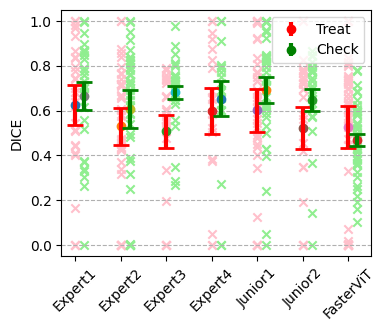
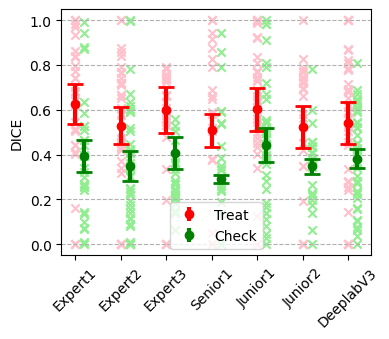
update

diff --git a/src/metrics[wp7]/plotting/results_errorbars_human_machine.py b/src/metrics[wp7]/plotting/results_errorbars_human_machine.py
@@ -27,11 +27,11 @@ for class_label in ['Treat', 'Check']:
     with open('../json_results/'+Version+'/' + metric + '_models_'+train_data+'_'+ class_label, 'r') as f:
         NSDs_model = json.load(f)
     NSD_e1, NSD_e2, NSD_e3, NSD_e4, NSD_j1, NSD_j2 = NSDs_annotator[0:6]
-    NSD_fasterViT = NSDs_model[1]
+    NSD_fasterViT = NSDs_model[0]
 
-    y = [mean(NSD_e1), mean(NSD_e2), mean(NSD_e3), mean(NSD_e4), mean(NSD_j1), mean(NSD_j2), mean(NSD_fasterViT)]
+    y = [mean(NSD_e1), mean(NSD_e2), mean(NSD_e4), mean(NSD_e3), mean(NSD_j1), mean(NSD_j2), mean(NSD_fasterViT)]
 
-    y_error = [std(NSD_e1) ** 2, std(NSD_e2) ** 2, std(NSD_e3) ** 2, std(NSD_e4) ** 2, std(NSD_j1) ** 2,
+    y_error = [std(NSD_e1) ** 2, std(NSD_e2) ** 2, std(NSD_e4) ** 2,std(NSD_e3) ** 2, std(NSD_j1) ** 2,
                std(NSD_j2) ** 2, std(NSD_fasterViT) ** 2]
 
     for i in range(7):
@@ -55,7 +55,7 @@ plt.errorbar([], [], yerr=[], fmt='o', markerfacecolor='green', markeredgecolor=
     # Add legend
 plt.legend(loc = 'lower center')
 plt.tight_layout()  # This ensures the labels fit well inside the plot
-plt.xticks(list(range(0, 7)), ['Expert1', 'Expert2', 'Expert3', 'Expert4', 'Junior1', 'Junior2', 'FasterViT'], rotation=45)
+plt.xticks(list(range(0, 7)), ['Expert1', 'Expert2', 'Expert3', 'Senior1', 'Junior1', 'Junior2', 'DeeplabV3'], rotation=45)
 print('../figures/'+Version+'/human_machine_' + metric + '_' + train_data)
 plt.savefig('../figures/'+Version+'/human_machine_' + metric + '_' + train_data, orientation='portrait',
             bbox_inches='tight')

diff --git a/src/dataset_module/create_Check_masks.py b/src/dataset_module/create_Check_masks.py
@@ -1,0 +1,32 @@
+import os
+
+import cv2
+import numpy as np
+
+
+def reColor_check(mask, color1=(128, 0, 0), color2=(100, 0, 0)):  # this function replaces color1 with color2 in mask
+    data = np.array(mask)  # "data" is a height x width x 4 numpy array
+    red, green, blue = data.T  # Temporarily unpack the bands for readability
+
+    # Replace white with red... (leaves alpha values alone...)
+    black_areas = (red == color1[0]) & (blue == color1[2]) & (green == color1[1])
+    data[black_areas.T] = color2  # Transpose back needed
+    return data
+
+annotator = 6
+mask_path = os.path.join('/data/DATA/annotator-consensus-deeplab/',str(annotator),'masks')  #the path to the 'annotator-consensus' folder
+mask_path2='/data/DATA/annotator-consensus2/'
+os.makedirs(os.path.join(mask_path2,str(annotator),'mask/Treat'),exist_ok=True)
+os.makedirs(os.path.join(mask_path2,str(annotator),'mask/Check'),exist_ok=True)
+
+for mask in os.listdir(mask_path):
+    image = cv2.imread(os.path.join(mask_path, mask))
+    mask2 = reColor_check(image,(0,128,0),(0,0,0))
+    mask2 = reColor_check(mask2,(0,0,128),(255,255,255))
+    cv2.imwrite(os.path.join(mask_path2,str(annotator),'mask/Treat',mask), mask2)
+
+    image = cv2.imread(os.path.join(mask_path, mask))
+    mask2 = reColor_check(image, (0, 128, 0), (255, 255, 255))
+    mask2 = reColor_check(mask2, (0, 0, 128), (0, 0, 0))
+    cv2.imwrite(os.path.join(mask_path2,str(annotator),'mask/Check',mask), mask2)
+

diff --git a/src/metrics[wp7]/export_annotator_metrics.py b/src/metrics[wp7]/export_annotator_metrics.py
@@ -2,14 +2,14 @@ import json
 Version = 'V2'
 ############ EXport expert models ##########
 for class_label in ['Treat', 'Check']:
-    mask_e1_path = '/data/DATA/annotator-consensus/0/mask/' + class_label
-    mask_e2_path = '/data/DATA/annotator-consensus/1/mask/' + class_label
-    mask_e3_path = '/data/DATA/annotator-consensus/5/mask/' + class_label
-    mask_e4_path = '/data/DATA/annotator-consensus/6/mask/' + class_label
-    mask_j1_path = '/data/DATA/annotator-consensus/2/mask/' + class_label
-    mask_j2_path = '/data/DATA/annotator-consensus/3/mask/' + class_label
+    mask_e1_path = '/data/DATA/annotator-consensus2/0/mask/' + class_label
+    mask_e2_path = '/data/DATA/annotator-consensus2/1/mask/' + class_label
+    mask_e3_path = '/data/DATA/annotator-consensus2/5/mask/' + class_label
+    mask_e4_path = '/data/DATA/annotator-consensus2/6/mask/' + class_label
+    mask_j1_path = '/data/DATA/annotator-consensus2/2/mask/' + class_label
+    mask_j2_path = '/data/DATA/annotator-consensus2/3/mask/' + class_label
 
-    mask_gt_path = '/data/DATA/incision/4/mask/' + class_label
+    mask_gt_path = '/data/DATA/incision/test40/mask/'+ class_label
 
     from metrics_calculate import *
 

diff --git a/src/dataset_module/prepare_ds_deeplab.py b/src/dataset_module/prepare_ds_deeplab.py
@@ -7,11 +7,13 @@ from PIL import Image
 from functions import reColor
 dict = {'nicolas.bourdel': 0, 'Jean-Luc.Pouly': 1, 'giuseppe.giacomello': 2, 'filippo.ferrari': 3,
         'incision.consensus': 4}
-annotator = 0
-orig_path = '/data/DATA/incision/'+str(annotator) + '/'
+annotator = 6
+orig_path = '/data/DATA/annotator-consensus/'+str(annotator) + '/'
 
 dest_path_orig = '/data/projects/IncisionDeepLab/input/incision/orig_data'+str(annotator)+'/train_images'
 dest_path_mask = '/data/projects/IncisionDeepLab/input/incision/orig_data'+str(annotator)+'/train_masks'
+dest_path_orig = '/data/DATA/annotator-consensus-deeplab/'+str(annotator) + '/images'
+dest_path_mask = '/data/DATA/annotator-consensus-deeplab/'+str(annotator) + '/masks'
 
 # moving original images
 orig_path_image = os.path.join(orig_path , 'image')

diff --git a/src/metrics[wp7]/export_model_metrics.py b/src/metrics[wp7]/export_model_metrics.py
@@ -2,16 +2,17 @@ import json
 import os
 
 class_label = 'Treat'
+print(class_label)
 common_path = '/data/DATA/Incision_predictions/test-1-213'
 #train_data = 'consensus'
-train_data = 'consensus'
+train_data = 'all'
 Version = 'V2'
 mask_pred_path_deeplab = os.path.join(common_path , 'Deeplab' , train_data, 'mask', class_label)
 mask_pred_path_fasterViT = os.path.join(common_path , 'FasterViT' , train_data, 'mask', class_label)
 mask_pred_path_mask2Former = os.path.join(common_path , 'Mask2Former' , train_data, 'mask', class_label)
 
 mask_gt_path = '/data/DATA/incision/4/mask/' + class_label
-
+mask_gt_path = '/data/DATA/incision/test40/mask/'+ class_label
 from metrics_calculate import *
 
 NSD_deeplab, DICE_deeplab, IOU_deeplab = calculate_metrics(mask_pred_path_deeplab, mask_gt_path)

diff --git a/src/plot/create_image_with_STAPLE.py b/src/plot/create_image_with_STAPLE.py
@@ -50,8 +50,8 @@ def combine_images(path1, path2, output_path):
             print(f"Error processing {image_name}: {e}")
 
 # Example usage
-path1 = 'annotationDatas/annotationData214/image'
-path2 = '/data/DATA/STAPLE/Batch214/final'
-output_path = "/data/DATA/temp-staple-image"
+path1 = '/data/projects/IncisionDeepLab/input/incision/orig_data4/test_images'
+path2 = '/data/DATA/Incision_predictions/test-1-213/Deeplab/all/selected_finals'
+output_path = "/data/DATA/ZWZW"
 
 combine_images(path1, path2, output_path)

diff --git a/src/metrics[wp7]/export_model_expert_junior_metrics.py b/src/metrics[wp7]/export_model_expert_junior_metrics.py
@@ -11,7 +11,7 @@ Version = 'V2'
 mask_pred_path_deeplab_expert = os.path.join(common_path , 'Deeplab' , train_data1, 'mask', class_label)
 mask_pred_path_deeplab_junior = os.path.join(common_path , 'Deeplab' , train_data2, 'mask', class_label)
 
-mask_gt_path = '/data/DATA/incision/4/mask/' + class_label
+mask_gt_path = '/data/DATA/incision/test40/mask/'+ class_label
 
 from metrics_calculate import *
 

diff --git a/src/dataset_module/data_folder_creation_from_annotations.py b/src/dataset_module/data_folder_creation_from_annotations.py
@@ -61,6 +61,8 @@ for project in api.project.get_list(ws.id):  # for each project
     for ds in api.dataset.get_list(project.id):
         print(project.name)
         print(ds.name)
+        if project.name!='Endometriosis_WS10':
+            continue
         saveasbad = 1
         for vd in api.video.get_list(ds.id):
             # if ANNOTATOR == 3 and vd.name in buggy_videos:
